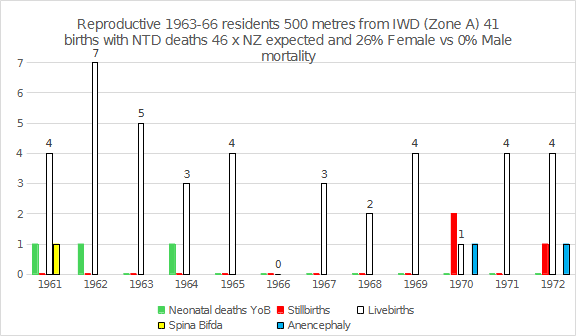
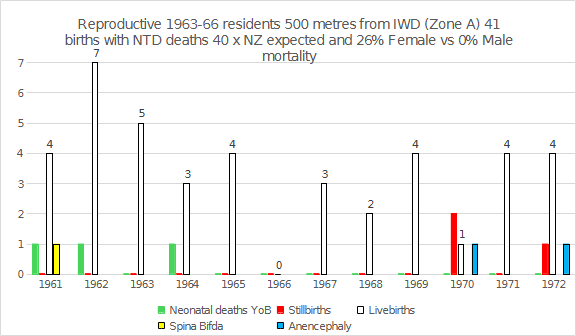
fix typos, add more sources

diff --git a/assets/css/style.scss b/assets/css/style.scss
@@ -14,3 +14,7 @@ img.centered {
   margin-left: auto;
   margin-right: auto;
 }
+
+.notes {
+  font-size: smaller;
+}
